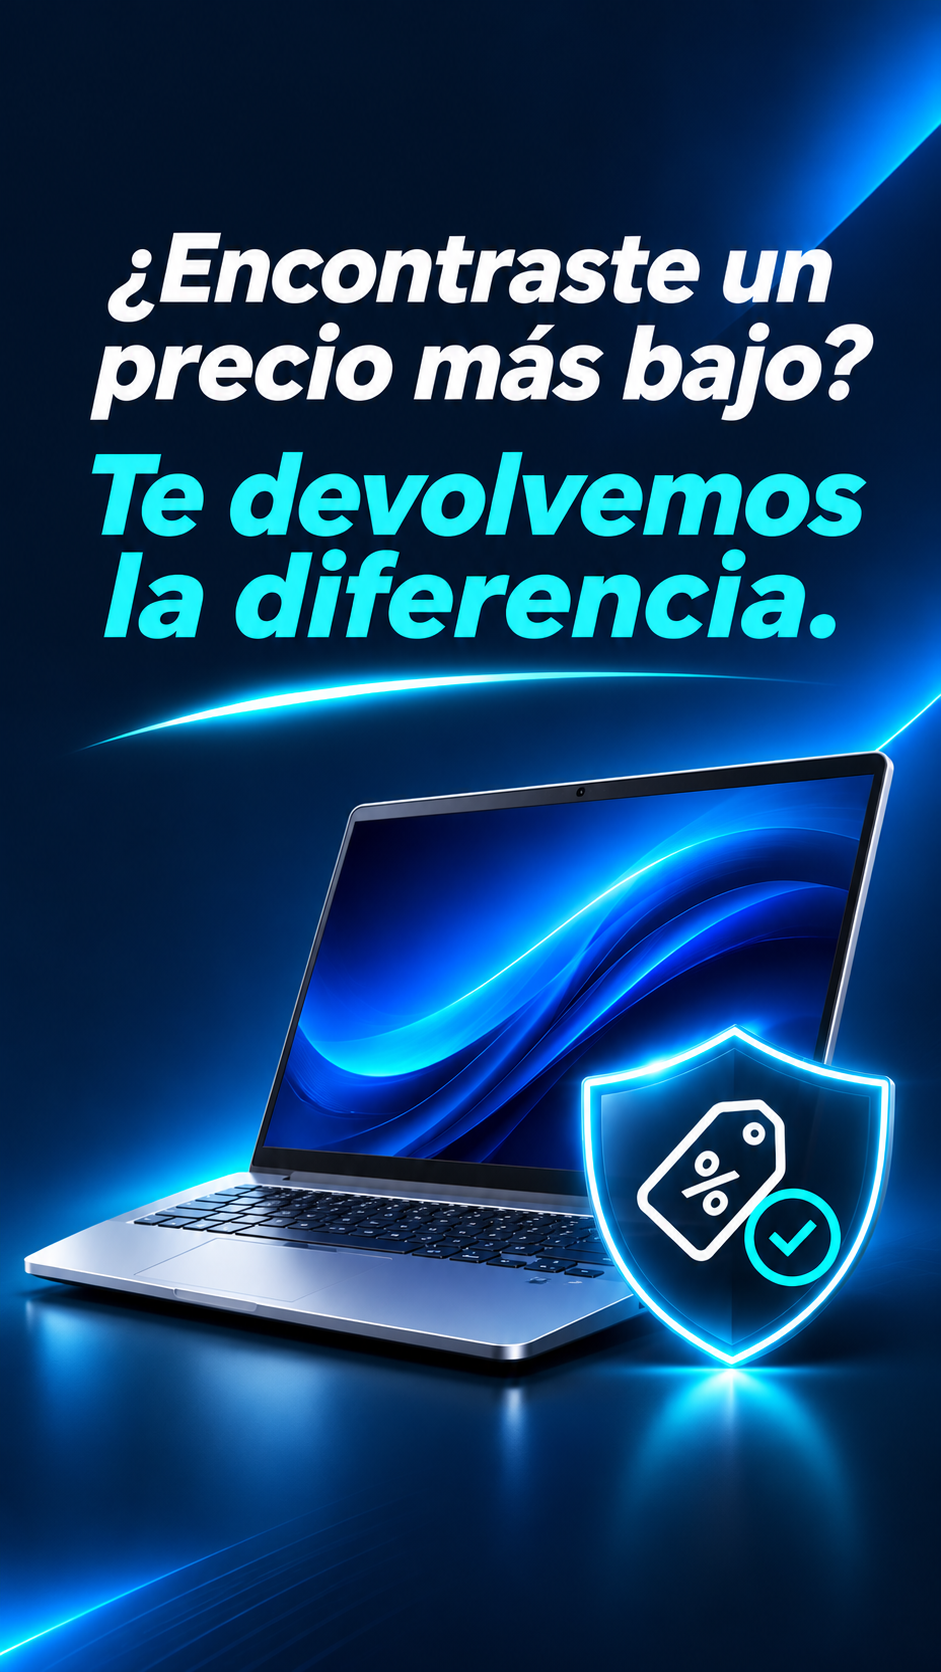
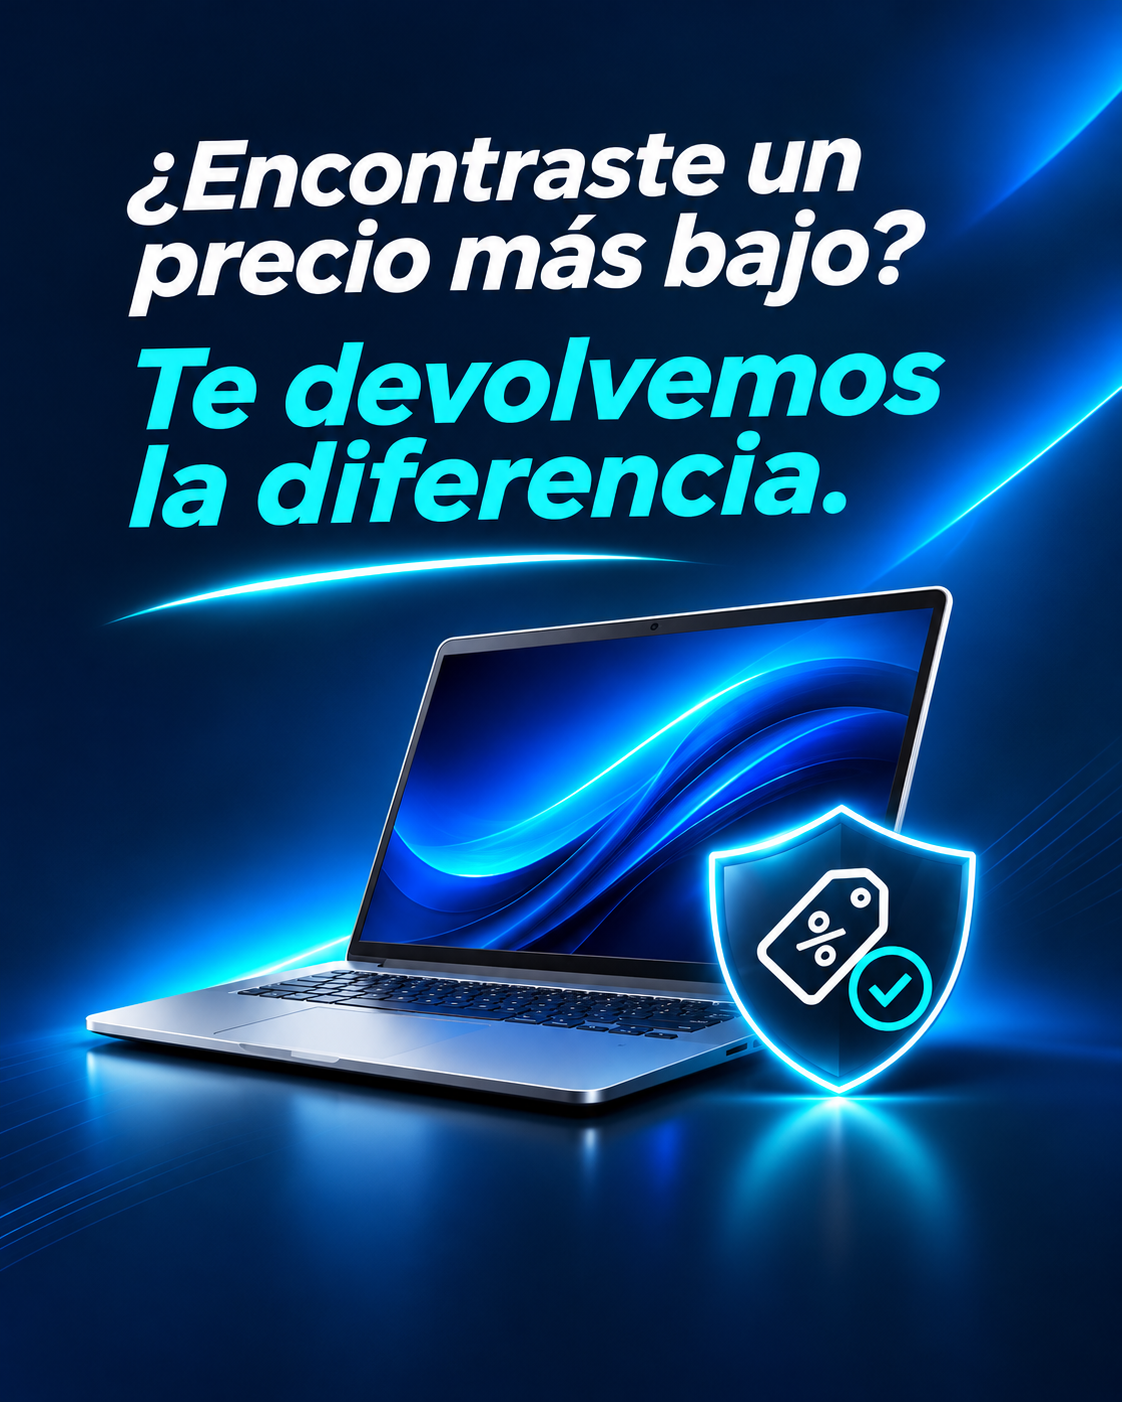
feat(ecom-13): hero mobile 1122x1402 ancho completo
Reemplaza arte mobile y elimina max-height/contain que generaban bandas laterales.

diff --git a/src/styles.css b/src/styles.css
@@ -3724,21 +3724,19 @@ img {
 
 @media (max-width: 767px) {
   .nbHeroBanner {
-    display: flex;
-    justify-content: center;
-    max-height: 330px;
+    width: 100%;
     background: #0b1a30;
   }
 
   .nbHeroPicture {
-    max-height: 330px;
+    width: 100%;
   }
 
   .nbHeroImg {
+    width: 100%;
     height: auto;
-    max-height: 330px;
-    object-fit: contain;
-    object-position: center top;
+    max-width: 100%;
+    vertical-align: top;
   }
 }
 
